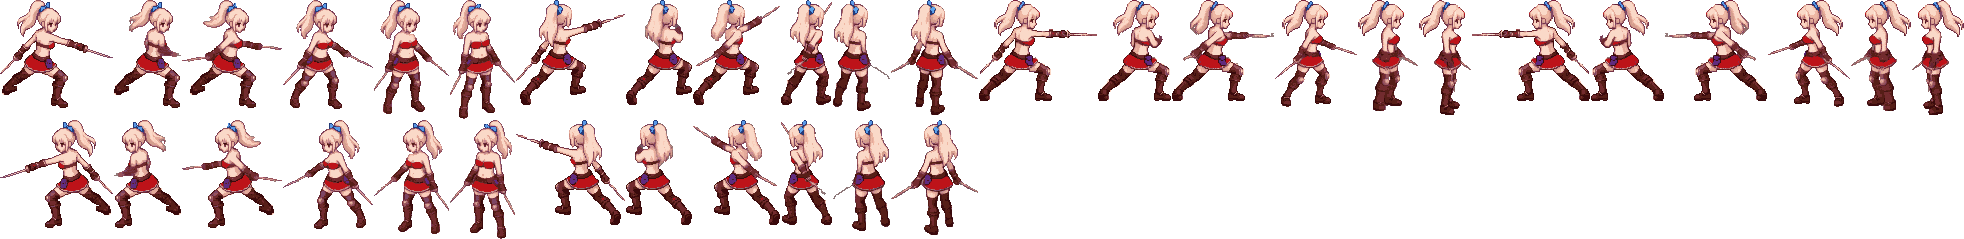
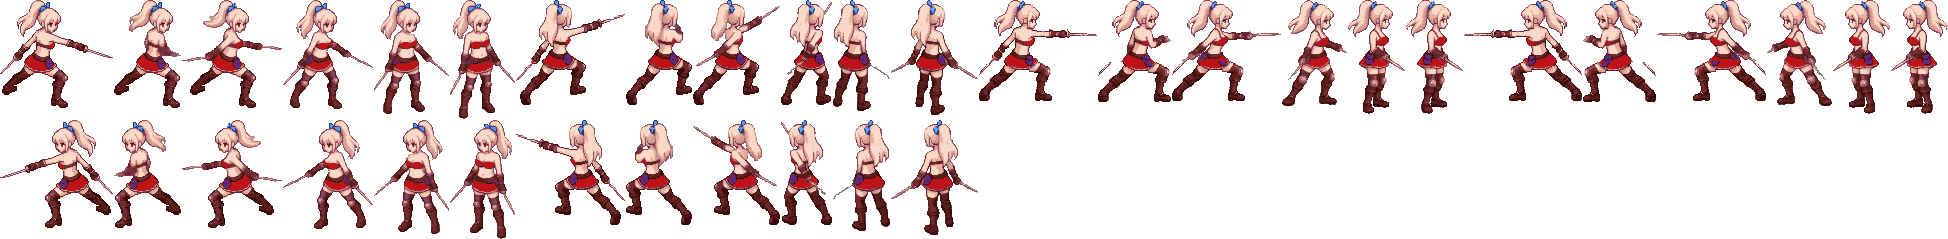
test128: Linette atk2/atk3 (side) redrawn from the new face - consistent head size and face
Claude-Session: https://claude.ai/code/session_016rTuiBLHccbMGyHtTkdTn7

diff --git a/test128/linette.html b/test128/linette.html
@@ -134,5 +134,5 @@ function draw(){
 }
 let acc=0,last=performance.now();
 function loop(now){acc+=Math.min(100,now-last);last=now;while(acc>=1000/60){step();P.gt=(P.gt||0)+1;acc-=1000/60;}draw();requestAnimationFrame(loop);}
-fetch('assets/anim/linette8.json?v=14').then(r=>r.json()).then(j=>{A=j;return Promise.all(A.sheets.map(p=>new Promise(res=>{const i=new Image();i.onload=()=>res(i);i.src='assets/'+p+'?v=14';})));}).then(ims=>{SH=ims;const ld=src=>new Promise(r=>{const i=new Image();i.onload=()=>r(i);i.src=src;});return Promise.all([ld('assets/anim/hero8_castfx.webp?v=1'),ld('assets/anim/hero8_castfire.webp?v=1')]);}).then(([a,b])=>{FX=a;FIRE=b;start('idle','idle_right');requestAnimationFrame(loop);});
+fetch('assets/anim/linette8.json?v=15').then(r=>r.json()).then(j=>{A=j;return Promise.all(A.sheets.map(p=>new Promise(res=>{const i=new Image();i.onload=()=>res(i);i.src='assets/'+p+'?v=15';})));}).then(ims=>{SH=ims;const ld=src=>new Promise(r=>{const i=new Image();i.onload=()=>r(i);i.src=src;});return Promise.all([ld('assets/anim/hero8_castfx.webp?v=1'),ld('assets/anim/hero8_castfire.webp?v=1')]);}).then(([a,b])=>{FX=a;FIRE=b;start('idle','idle_right');requestAnimationFrame(loop);});
 </script></body></html>
